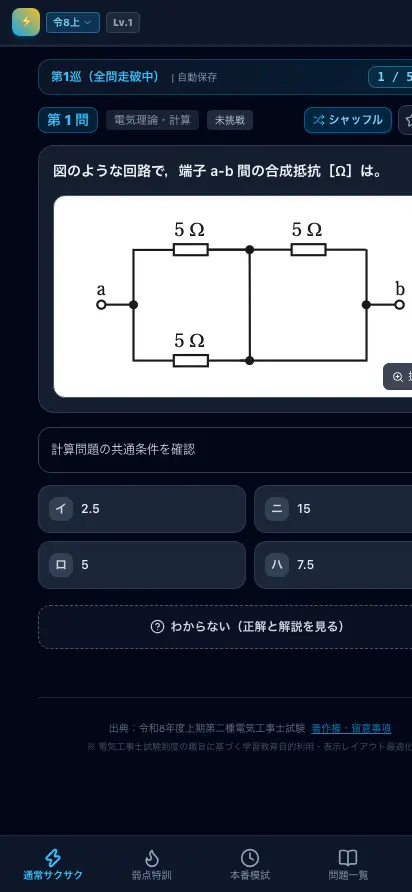
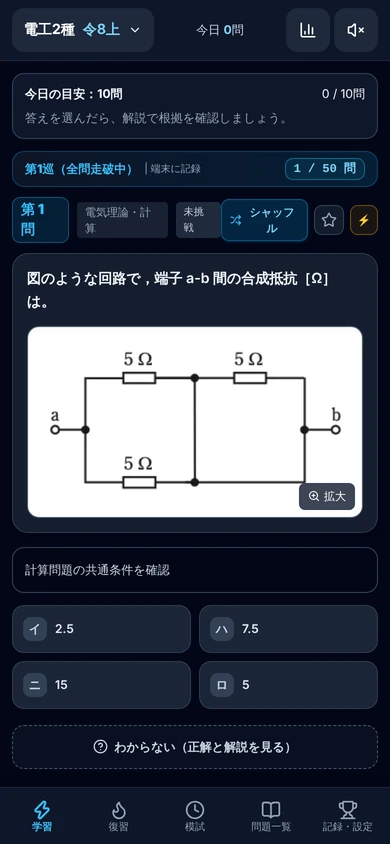
fix: 非公開にした construction2nd に合わせて、コードへのリンクを隠し画像を差し替える (#19)
* feat(business): 事業者ページ（ぱぱぞんアプリ）と法的表記4ページを追加

Stripe の事業者サイト審査と購入者向けに、屋号・事業内容・サービスと価格・
連絡先を載せた /business/ と、特商法の表記・返金ポリシー・利用規約・
プライバシーポリシーを追加。趣味の一覧からもリンクする。

Claude-Session: https://claude.ai/code/session_01CHLCeZ4KGt7mT1kVbLxEEM

* feat(business): 紺基調の配色・アプリ画面・運営者プロフィール・無料範囲を追加

事業者ページが文字だけで実態が伝わりにくかったため、ヒーロー帯に
アプリ画面、事業内容、運営者プロフィール、無料／有料の範囲を載せた。

Claude-Session: https://claude.ai/code/session_01CHLCeZ4KGt7mT1kVbLxEEM

* feat(business): 運営者の写真とプロフィール文を追加

Claude-Session: https://claude.ai/code/session_01CHLCeZ4KGt7mT1kVbLxEEM

* feat(business): プロフィールに勉強時間と転職時期を追記

Claude-Session: https://claude.ai/code/session_01CHLCeZ4KGt7mT1kVbLxEEM

* feat(apps): 第二種電気工事士 過去問サクサク道場を作品一覧に登録

Claude-Session: https://claude.ai/code/session_01CHLCeZ4KGt7mT1kVbLxEEM

* fix(business): 販売状況と規約を採用済みの運営方針に合わせて統一

外部レビューの指摘を受け、販売状況を「販売開始準備中」に、
特商法の販売者氏名の請求時開示、日本時間の利用期間と月末の扱い、
解約方法、返金方針、2営業日の返信目標、30日前の規約変更告知、
無料版と有料版を分けたプライバシーの説明に修正。賠償上限は削除。

Claude-Session: https://claude.ai/code/session_01CHLCeZ4KGt7mT1kVbLxEEM

* fix(business): 次回更新日時はStripeの契約管理画面で確認する案内に修正

Claude-Session: https://claude.ai/code/session_01CHLCeZ4KGt7mT1kVbLxEEM

* fix(business): 事業内容の表記を「暮らしや仕事に役立つWebアプリ（資格学習など）」に広げる

Stripe に登録する商品説明（案A）とサイトの表記をそろえ、今後ほかのアプリを
販売するときも事業内容を書き換えずに済むようにする。

Claude-Session: https://claude.ai/code/session_01CHLCeZ4KGt7mT1kVbLxEEM

* feat(business): アプリの公開先を Firebase Hosting に変更し、販売状況を「近日販売開始」に

アプリと LP の公開先が https://construction2nd.web.app/ に移るのに合わせて、
事業者ページ・作品一覧のリンクを更新。移行後は最新1回分だけ無料になるため、
[…]

diff --git a/src/data/apps.ts b/src/data/apps.ts
@@ -85,7 +85,9 @@ export type App = {
   motivation: string;
   howTo?: string;
   tech: string[];
-  links: { demo?: string; repo: string; blog?: string };
+  // repoPrivate: 作品リポジトリが非公開のとき true。「コードを見る」を出さず、スクリーンショットは
+  // 作品リポジトリから取得できないため public/works/ の画像を使う（画面を変えたら手で差し替える）。
+  links: { demo?: string; repo: string; blog?: string; repoPrivate?: boolean };
   // トップページに「実績」として載せる作品だけが持つ情報。
   // これが無い作品はサイト上では非表示（データは残しておき、載せ直す時に showcase を足す）。
   showcase?: Showcase;
@@ -189,6 +191,7 @@ export const apps: App[] = [
     links: {
       demo: 'https://construction2nd.web.app/lp/',
       repo: 'https://github.com/165cm/construction2nd',
+      repoPrivate: true,
     },
   },
   {
